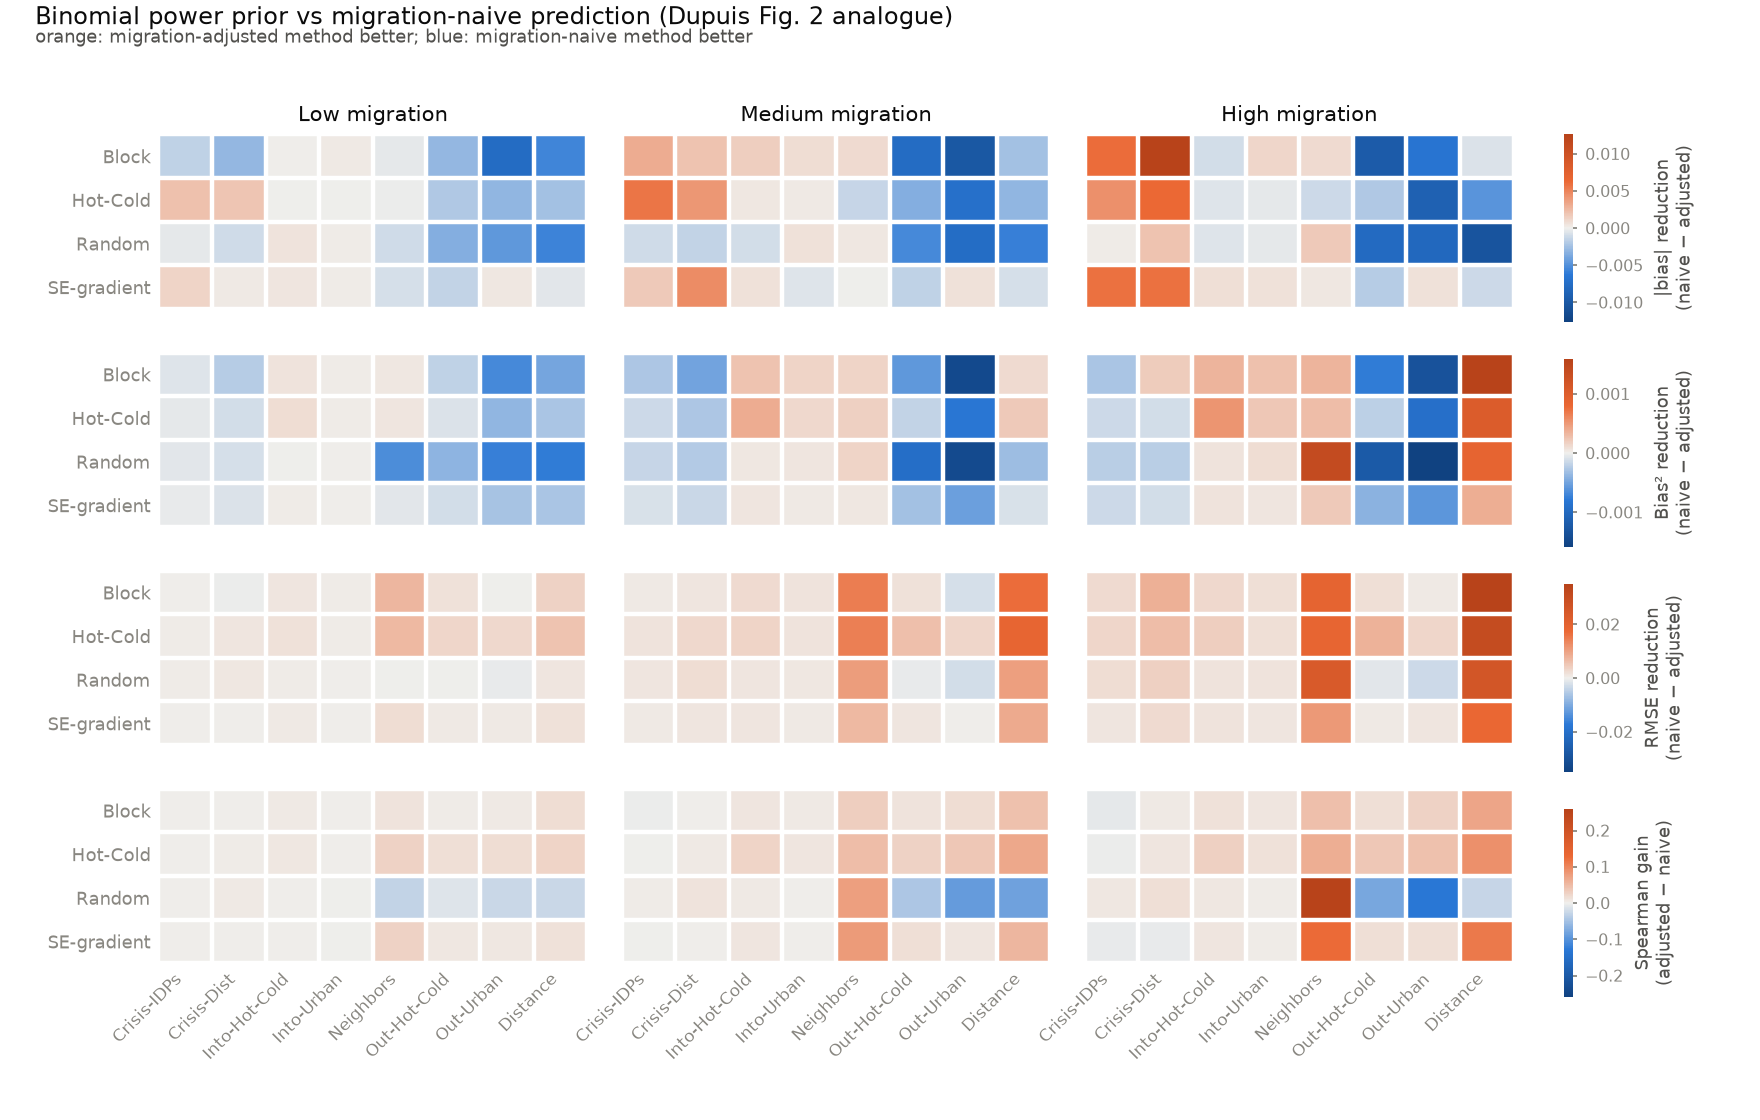
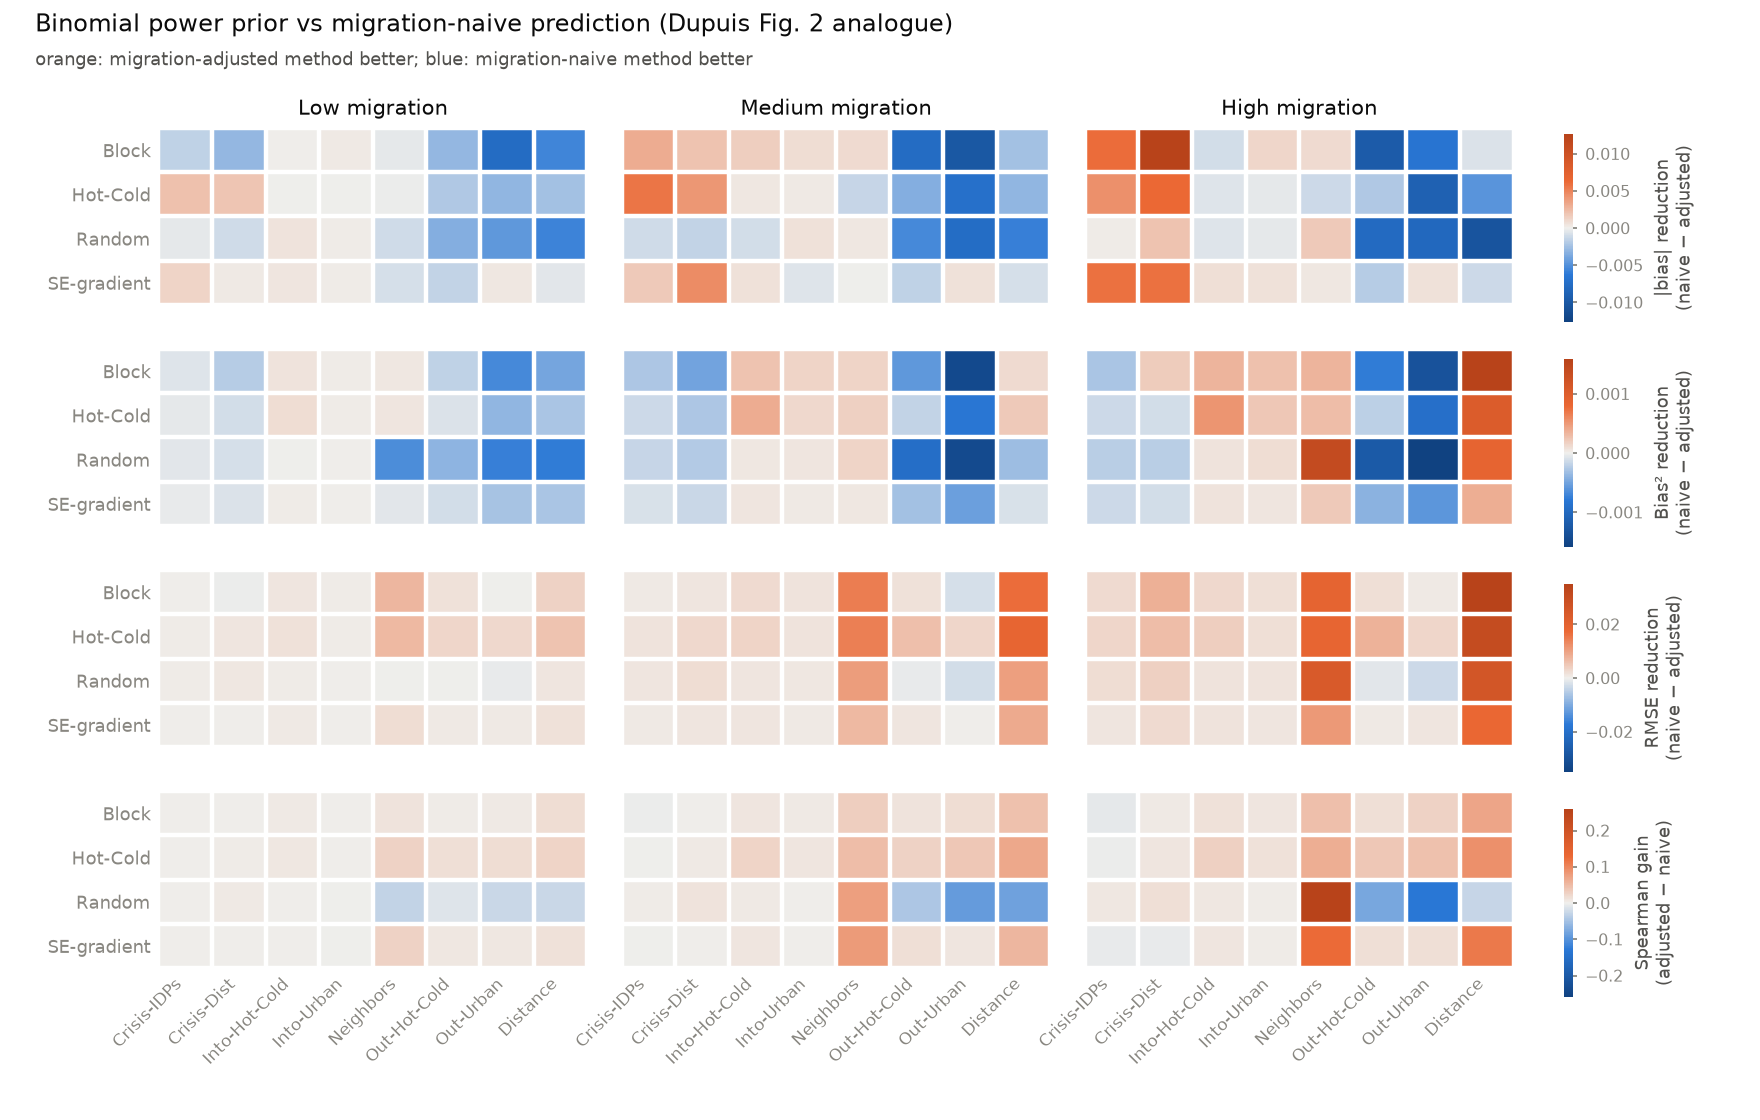
migration_sae_replication: scale heatmap titles with figure height
Claude-Session: https://claude.ai/code/session_01263Vm5huK1NBxfJLKU5s66

diff --git a/migration_sae_replication/make_figures.py b/migration_sae_replication/make_figures.py
@@ -95,11 +95,11 @@ def heatmap_grid(scen, method, metrics, title, path, reference="naive", bases=No
         cb.set_label(label, fontsize=8, color=INK2)
         cb.outline.set_visible(False)
         cb.ax.tick_params(labelsize=7, length=2, color=MUTED)
-    fig.suptitle(title, fontsize=11, x=0.02, ha="left", y=0.995)
-    fig.text(0.02, 0.962, note or "orange: migration-adjusted method better; blue: migration-naive method better",
-             fontsize=8, color=INK2)
-    fig.subplots_adjust(top=0.88 if nrow <= 4 else 0.9, bottom=0.2 if nrow <= 3 else (0.14 if nrow <= 4 else 0.1),
-                        left=0.09, right=0.86, hspace=0.25, wspace=0.08)
+    h = fig.get_size_inches()[1]
+    fig.suptitle(title, fontsize=11, x=0.02, ha="left", y=1 - 0.08 / h, va="top")
+    fig.text(0.02, 1 - 0.32 / h, note or "orange: migration-adjusted method better; blue: migration-naive method better",
+             fontsize=8, color=INK2, va="top")
+    fig.subplots_adjust(top=1 - 0.8 / h, bottom=0.95 / h, left=0.09, right=0.86, hspace=0.25, wspace=0.08)
     fig.savefig(path, dpi=160)
     plt.close(fig)
 
